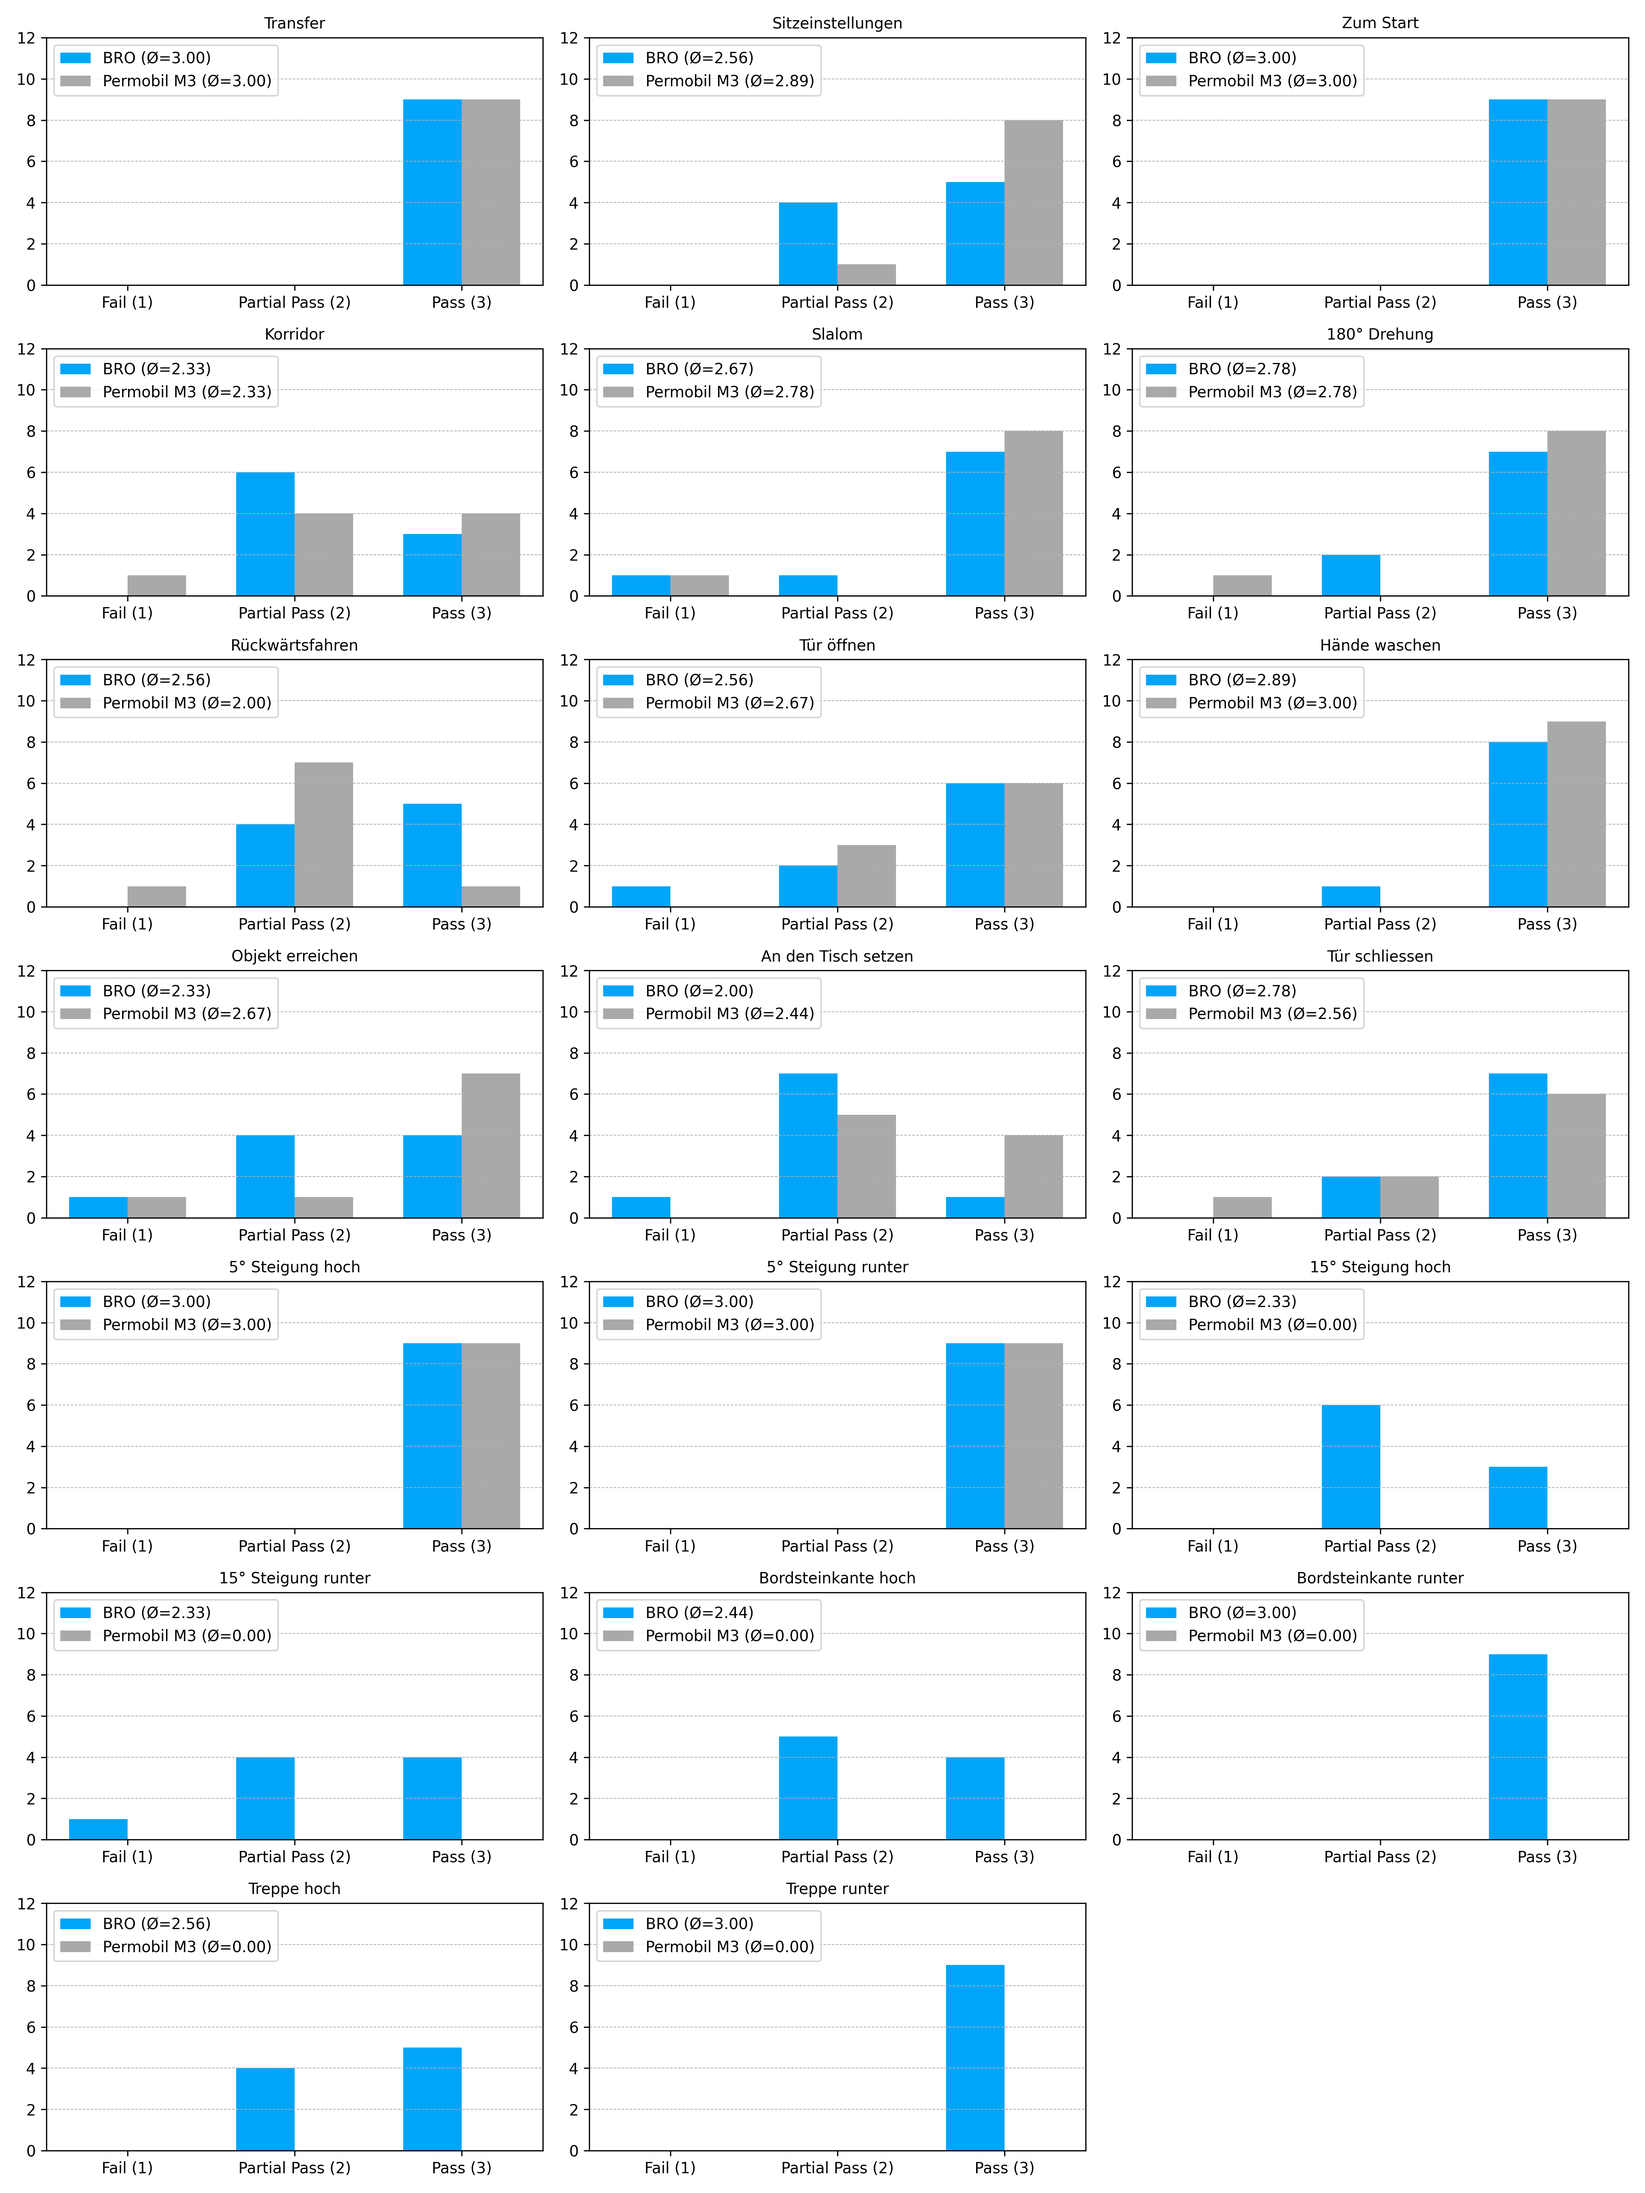
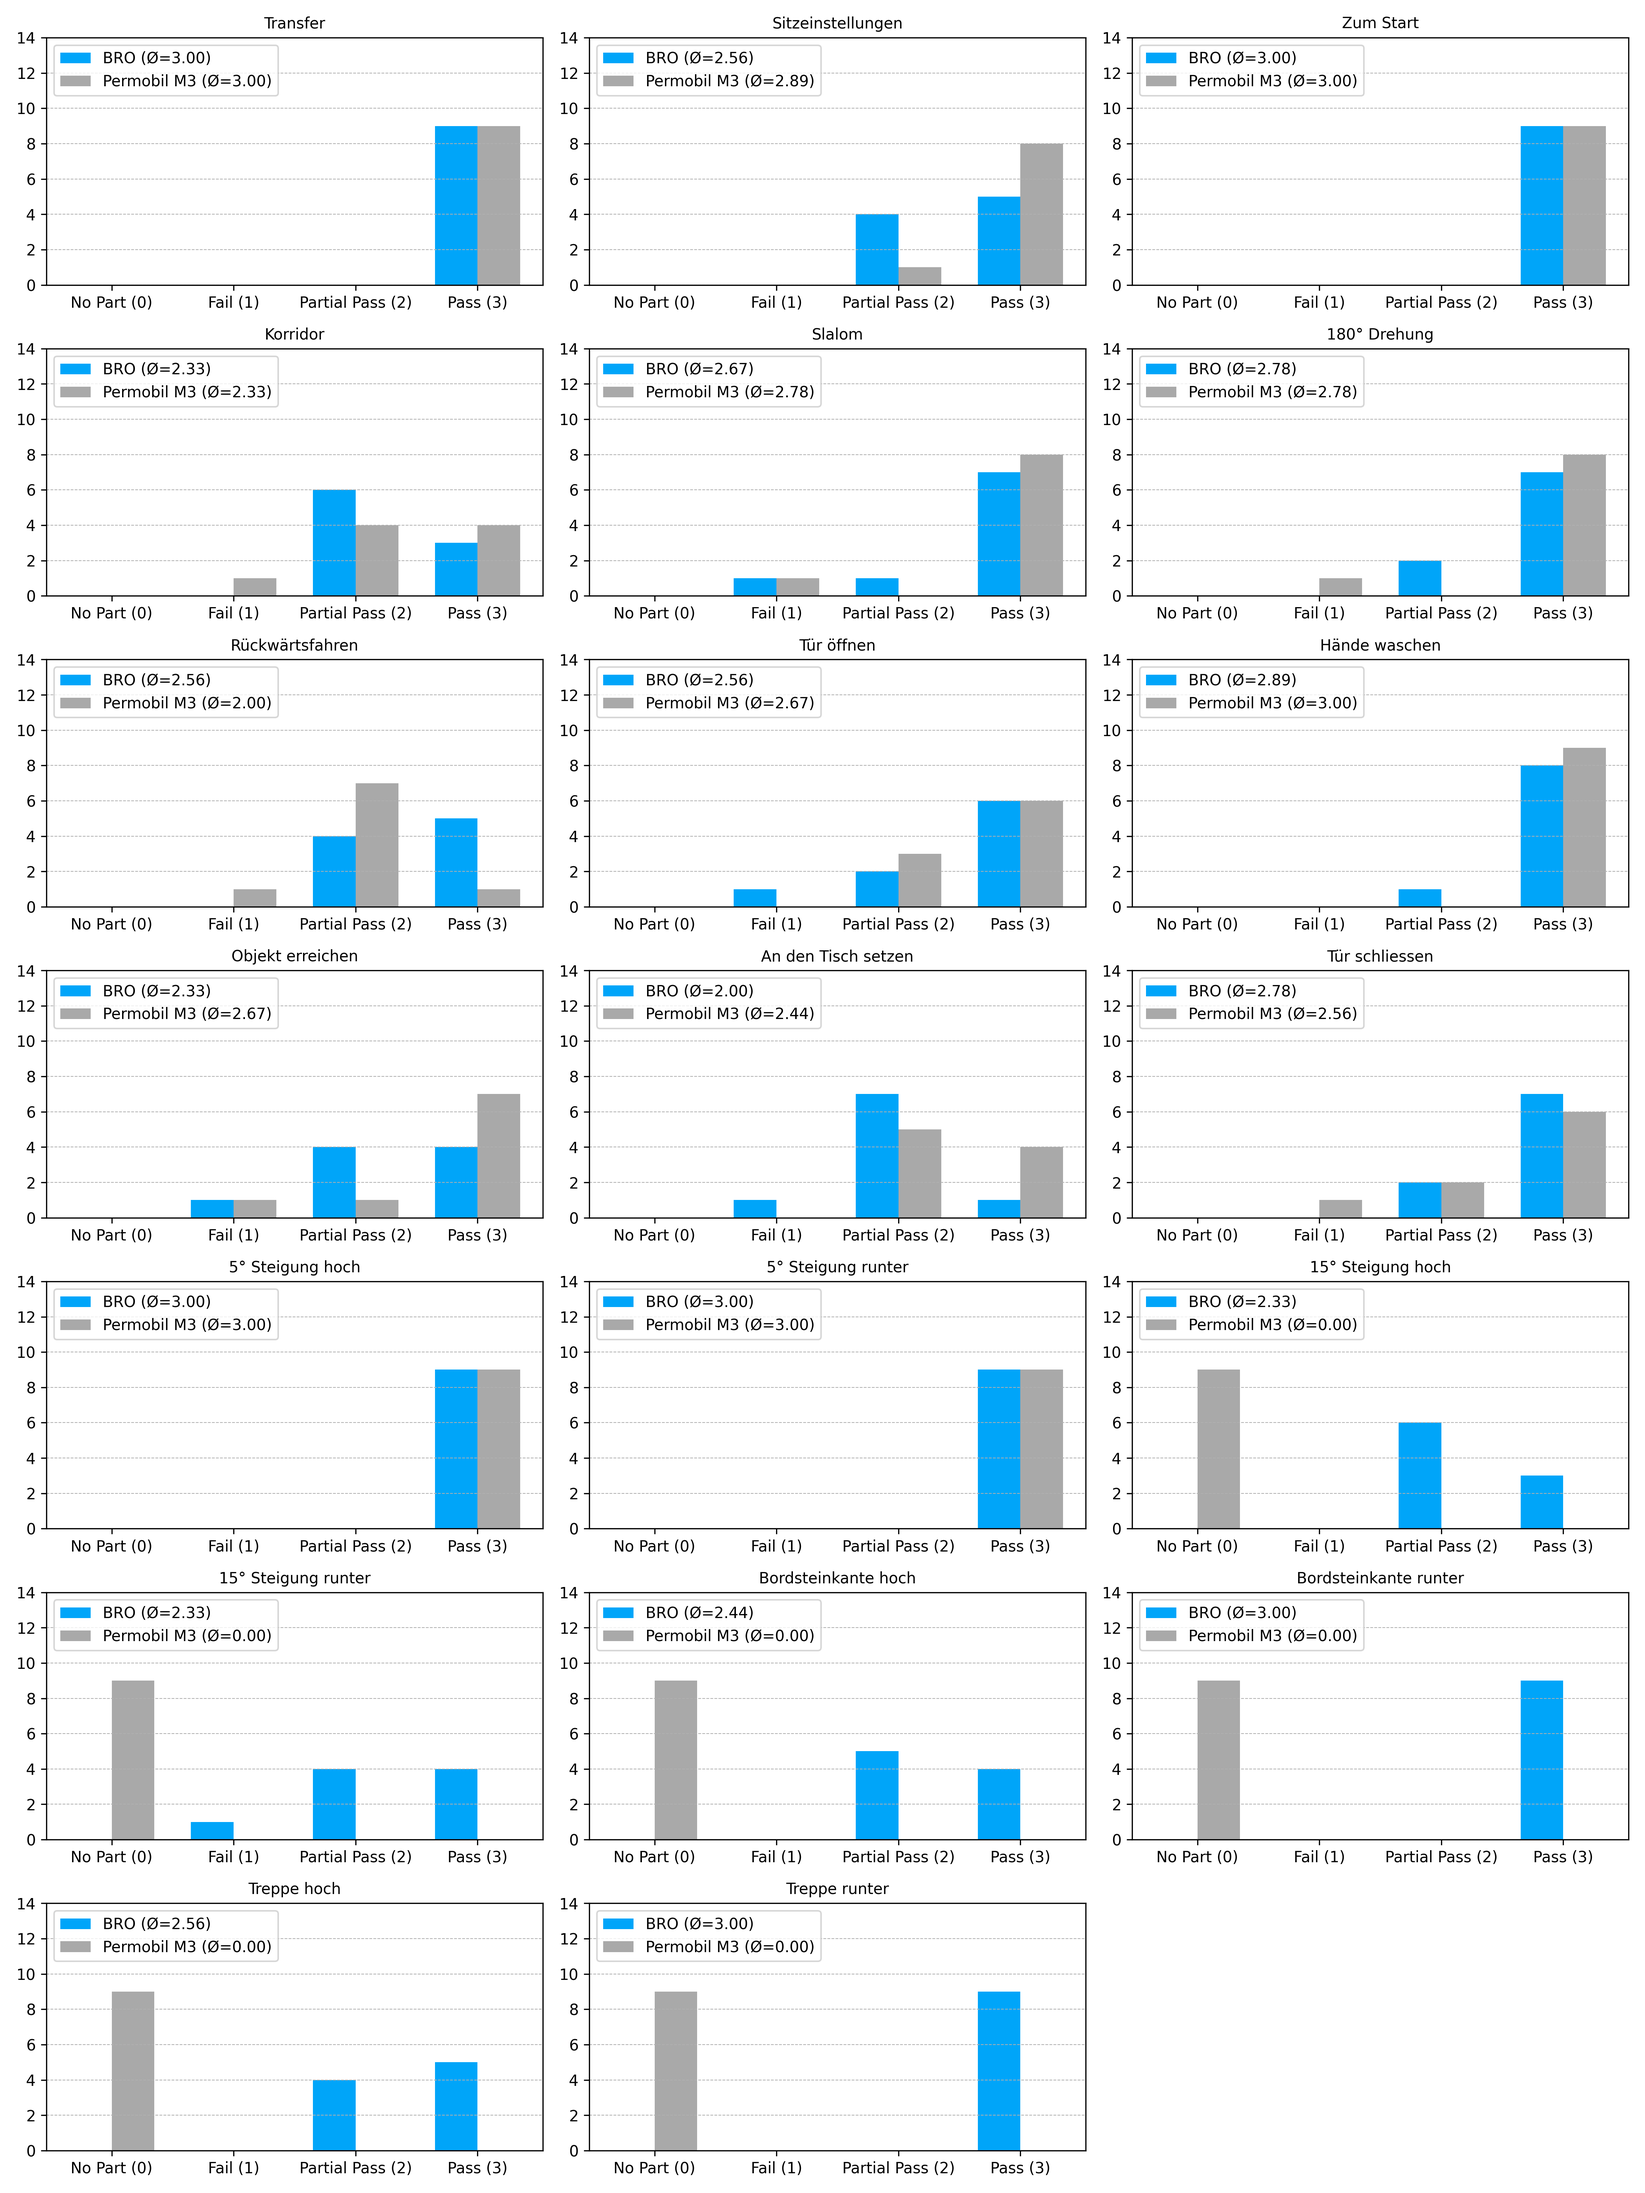
updates

diff --git a/Code/score_barplot_improved.py b/Code/score_barplot_improved.py
@@ -1,8 +1,10 @@
 import pandas as pd
 import matplotlib.pyplot as plt
+import matplotlib.ticker as ticker
 import os
 import numpy as np
 import re
+from math import ceil
 
 # === Constants ===
 BASE_DIR = os.path.dirname(os.path.abspath(__file__))
@@ -45,10 +47,20 @@ def plot_bar_chart(ax, score_counts, title, global_max):
 
     ax.set_title(title, fontsize=10)
     ax.set_xticks(x)
-    ax.set_xticklabels(['Fail (1)', 'Partial Pass (2)', 'Pass (3)'])
-    ax.set_ylim(0, global_max + 3)
+    ax.set_xticklabels(['No Part (0)', 'Fail (1)', 'Partial Pass (2)', 'Pass (3)'])
+
+    # === Y-Achse: mindestens +4 und auf Tick enden ===
+    minimum_ymax = global_max + 4
+    locator = ticker.MaxNLocator(integer=True)
+    tick_values = locator.tick_values(0, minimum_ymax)
+
+    final_ymax = tick_values[tick_values >= minimum_ymax].min()  # nächster gültiger Tick ≥ minimum
+    ax.set_ylim(0, final_ymax)
+    ax.yaxis.set_major_locator(locator)
+
     ax.grid(True, axis='y', linestyle='--', linewidth=0.5)
     ax.legend(loc='upper left', fontsize=10)
+
 
 # === Main Logic ===
 df = load_csv("merged_data.csv")
@@ -67,7 +79,7 @@ for i, task_num in enumerate(range(1, 7)):
 
     all_scores = pd.DataFrame(bro_rows + m3_rows)
     all_scores['Score'] = all_scores['Score'].astype(int)
-    score_counts = all_scores.groupby(['Score', 'Version']).size().unstack(fill_value=0).reindex([1, 2, 3], fill_value=0)
+    score_counts = all_scores.groupby(['Score', 'Version']).size().unstack(fill_value=0).reindex([0, 1, 2, 3], fill_value=0)
     global_max = max(global_max, score_counts.values.max())
 
     plot_bar_chart(axs[i], score_counts, COMBINED_TITLES[i], global_max)
@@ -101,7 +113,13 @@ for subtask, title, ax in zip(subtasks, DETAILED_TITLES, axs):
             m3_scores.append({'Score': int(row[m3_col]), 'Version': 'Permobil M3'})
 
     all_scores = pd.DataFrame(bro_scores + m3_scores)
-    score_counts = all_scores.groupby(['Score', 'Version']).size().unstack(fill_value=0).reindex([1, 2, 3], fill_value=0)
+    score_counts = (
+        all_scores.groupby(['Score', 'Version'])
+        .size()
+        .unstack(fill_value=0)
+        .reindex(index=pd.Index([0, 1, 2, 3], name='Score'), fill_value=0)
+)
+
     global_max = max(global_max, score_counts.values.max())
 
     plot_bar_chart(ax, score_counts, title, global_max)
